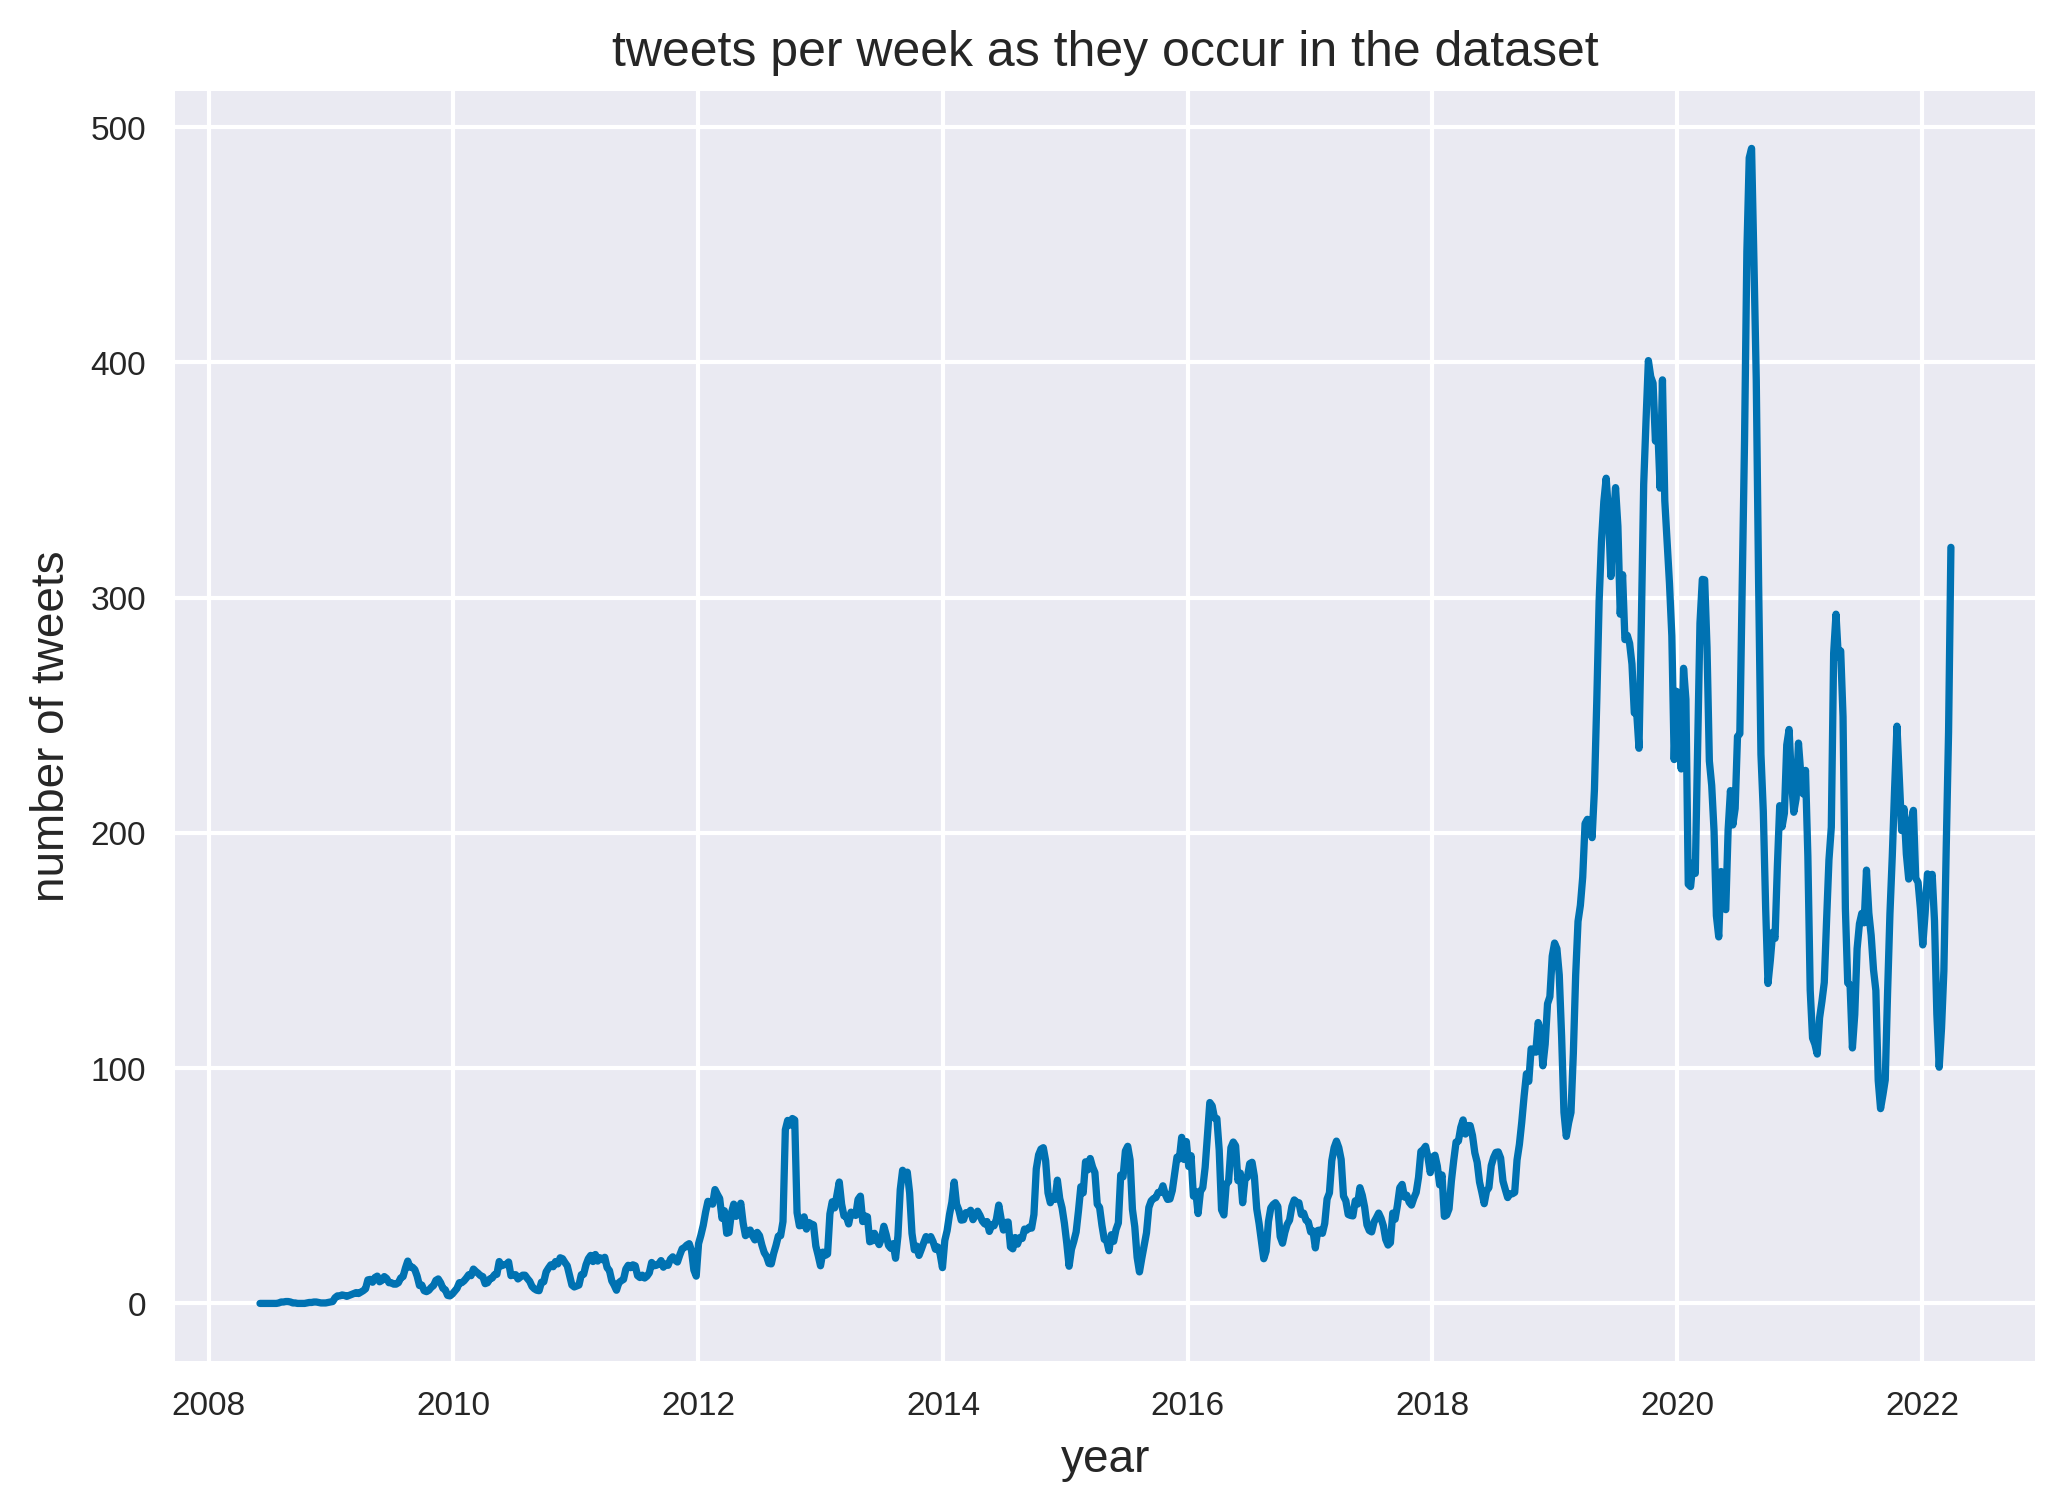
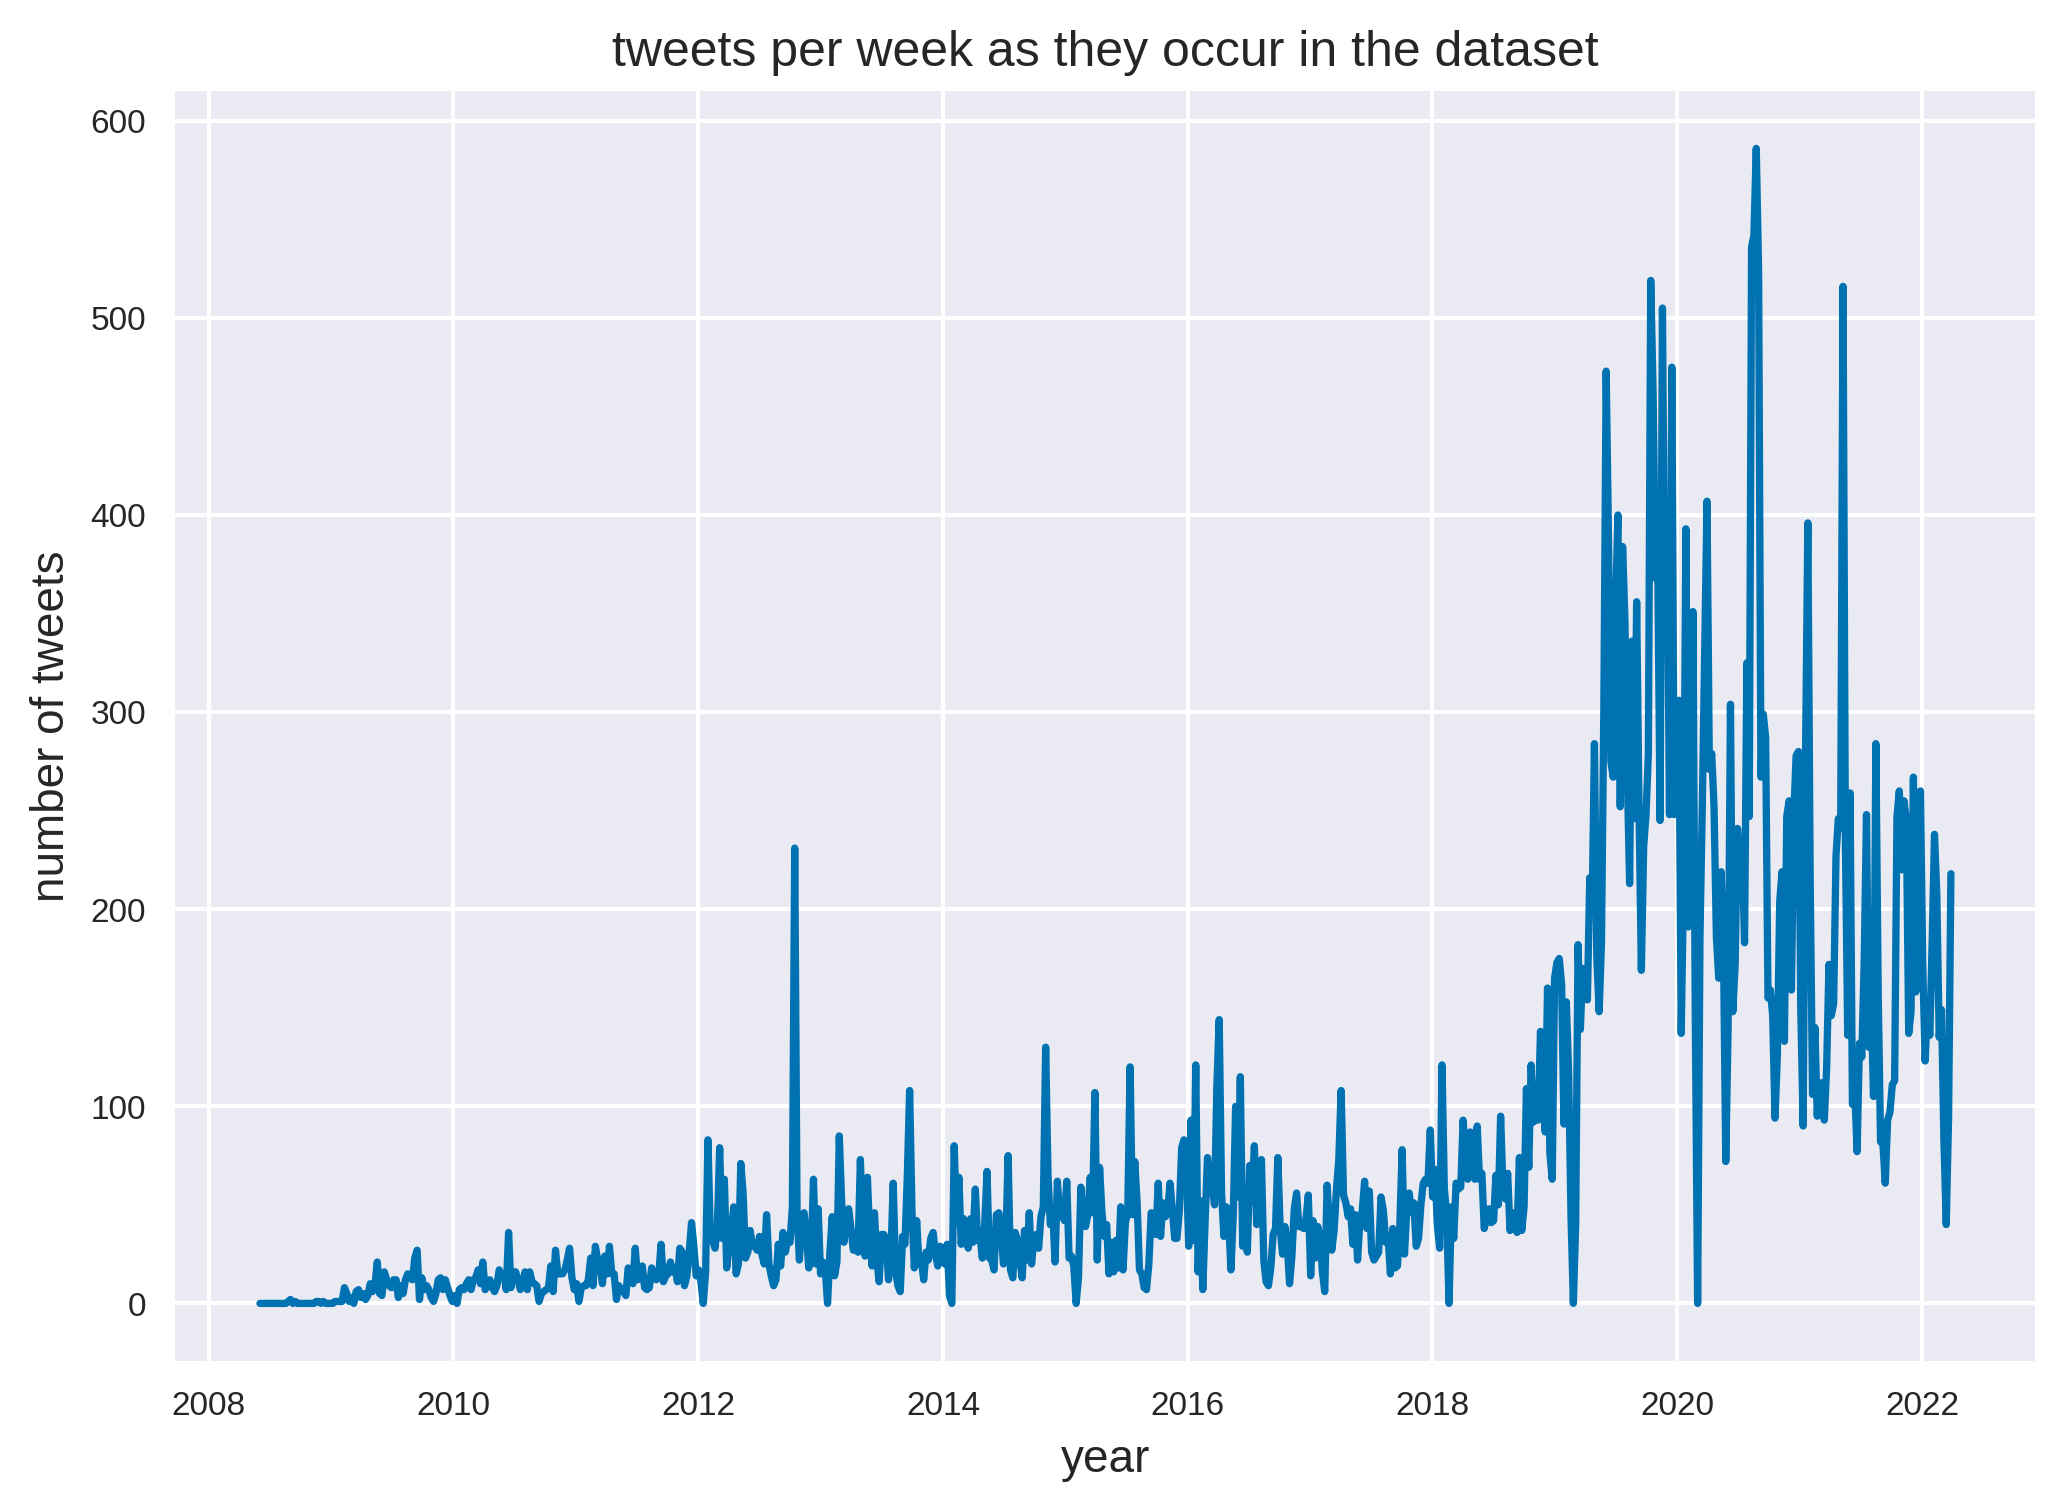
without convolve

diff --git a/fig/sentiment_over_time.py b/fig/sentiment_over_time.py
@@ -151,7 +151,7 @@ def plot_total_tweet_over_time():
     for label in (ax.get_xticklabels() + ax.get_yticklabels()):
         label.set_fontsize(8)
     N = 5
-    flat = np.convolve(flat, np.ones(N)/N, mode = 'valid')
+    #flat = np.convolve(flat, np.ones(N)/N, mode = 'valid')
 
     ax.plot(week_nums, flat[:len(week_nums)], color = blue)
     plt.ylabel('number of tweets')
